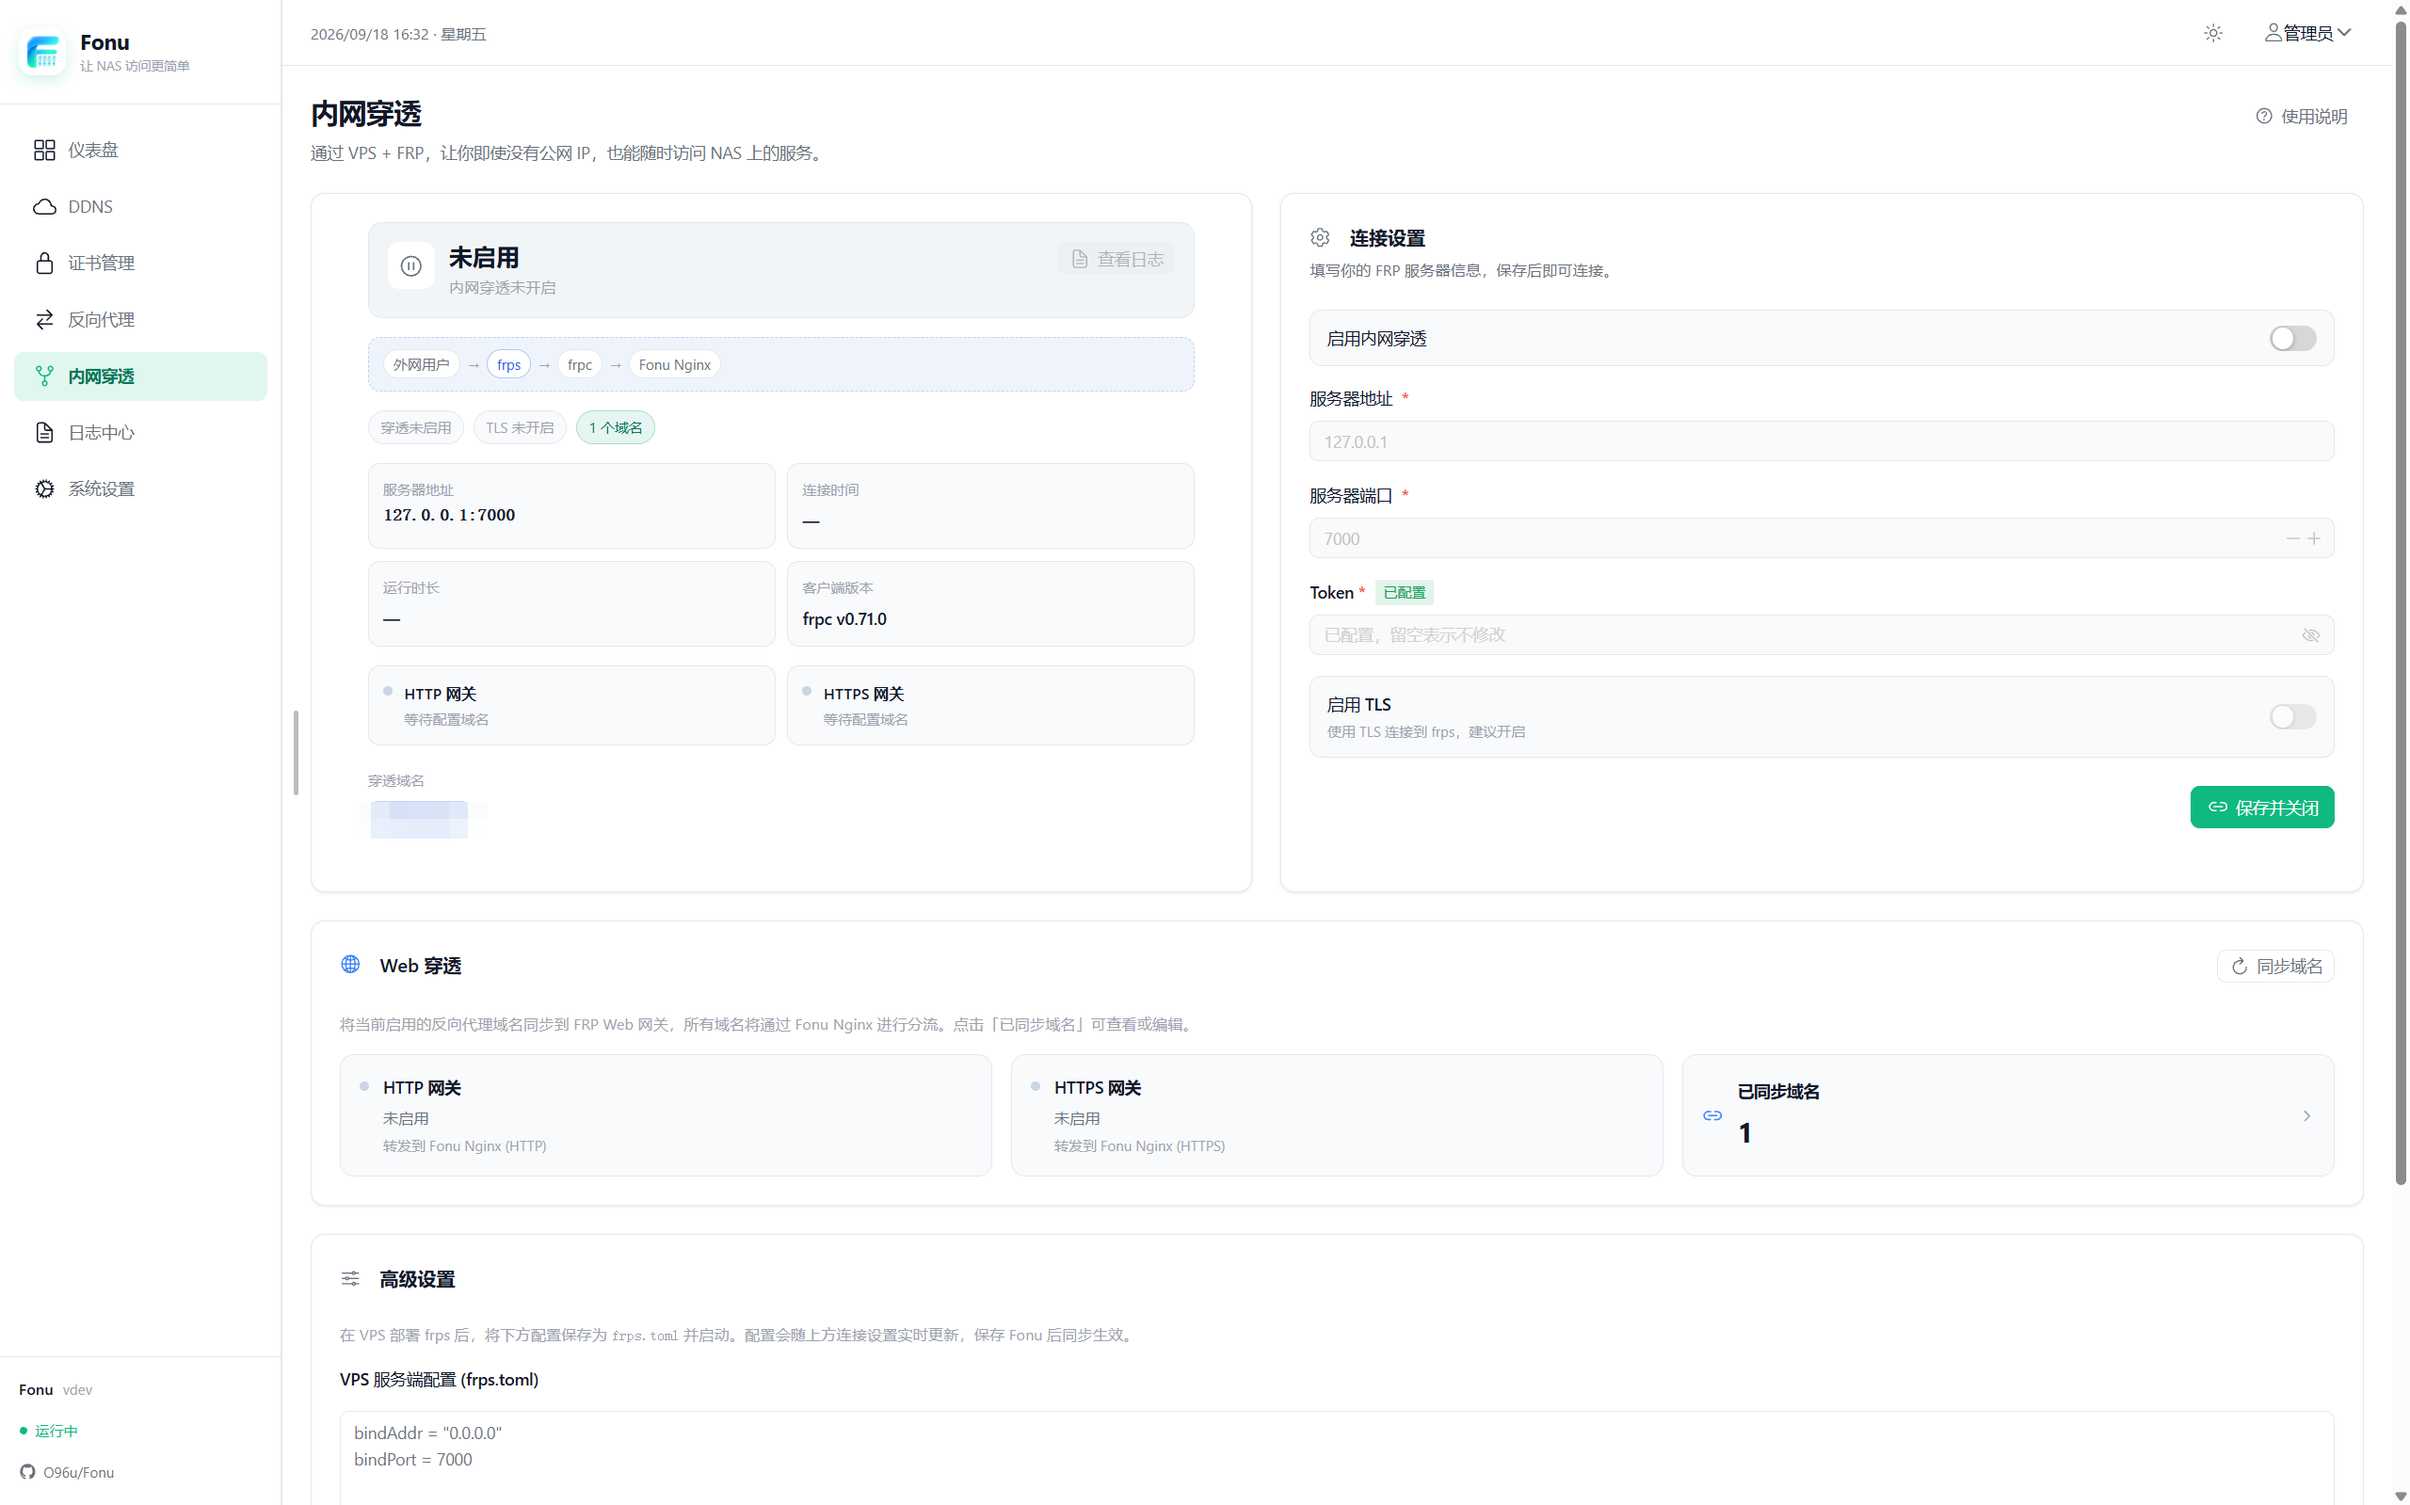
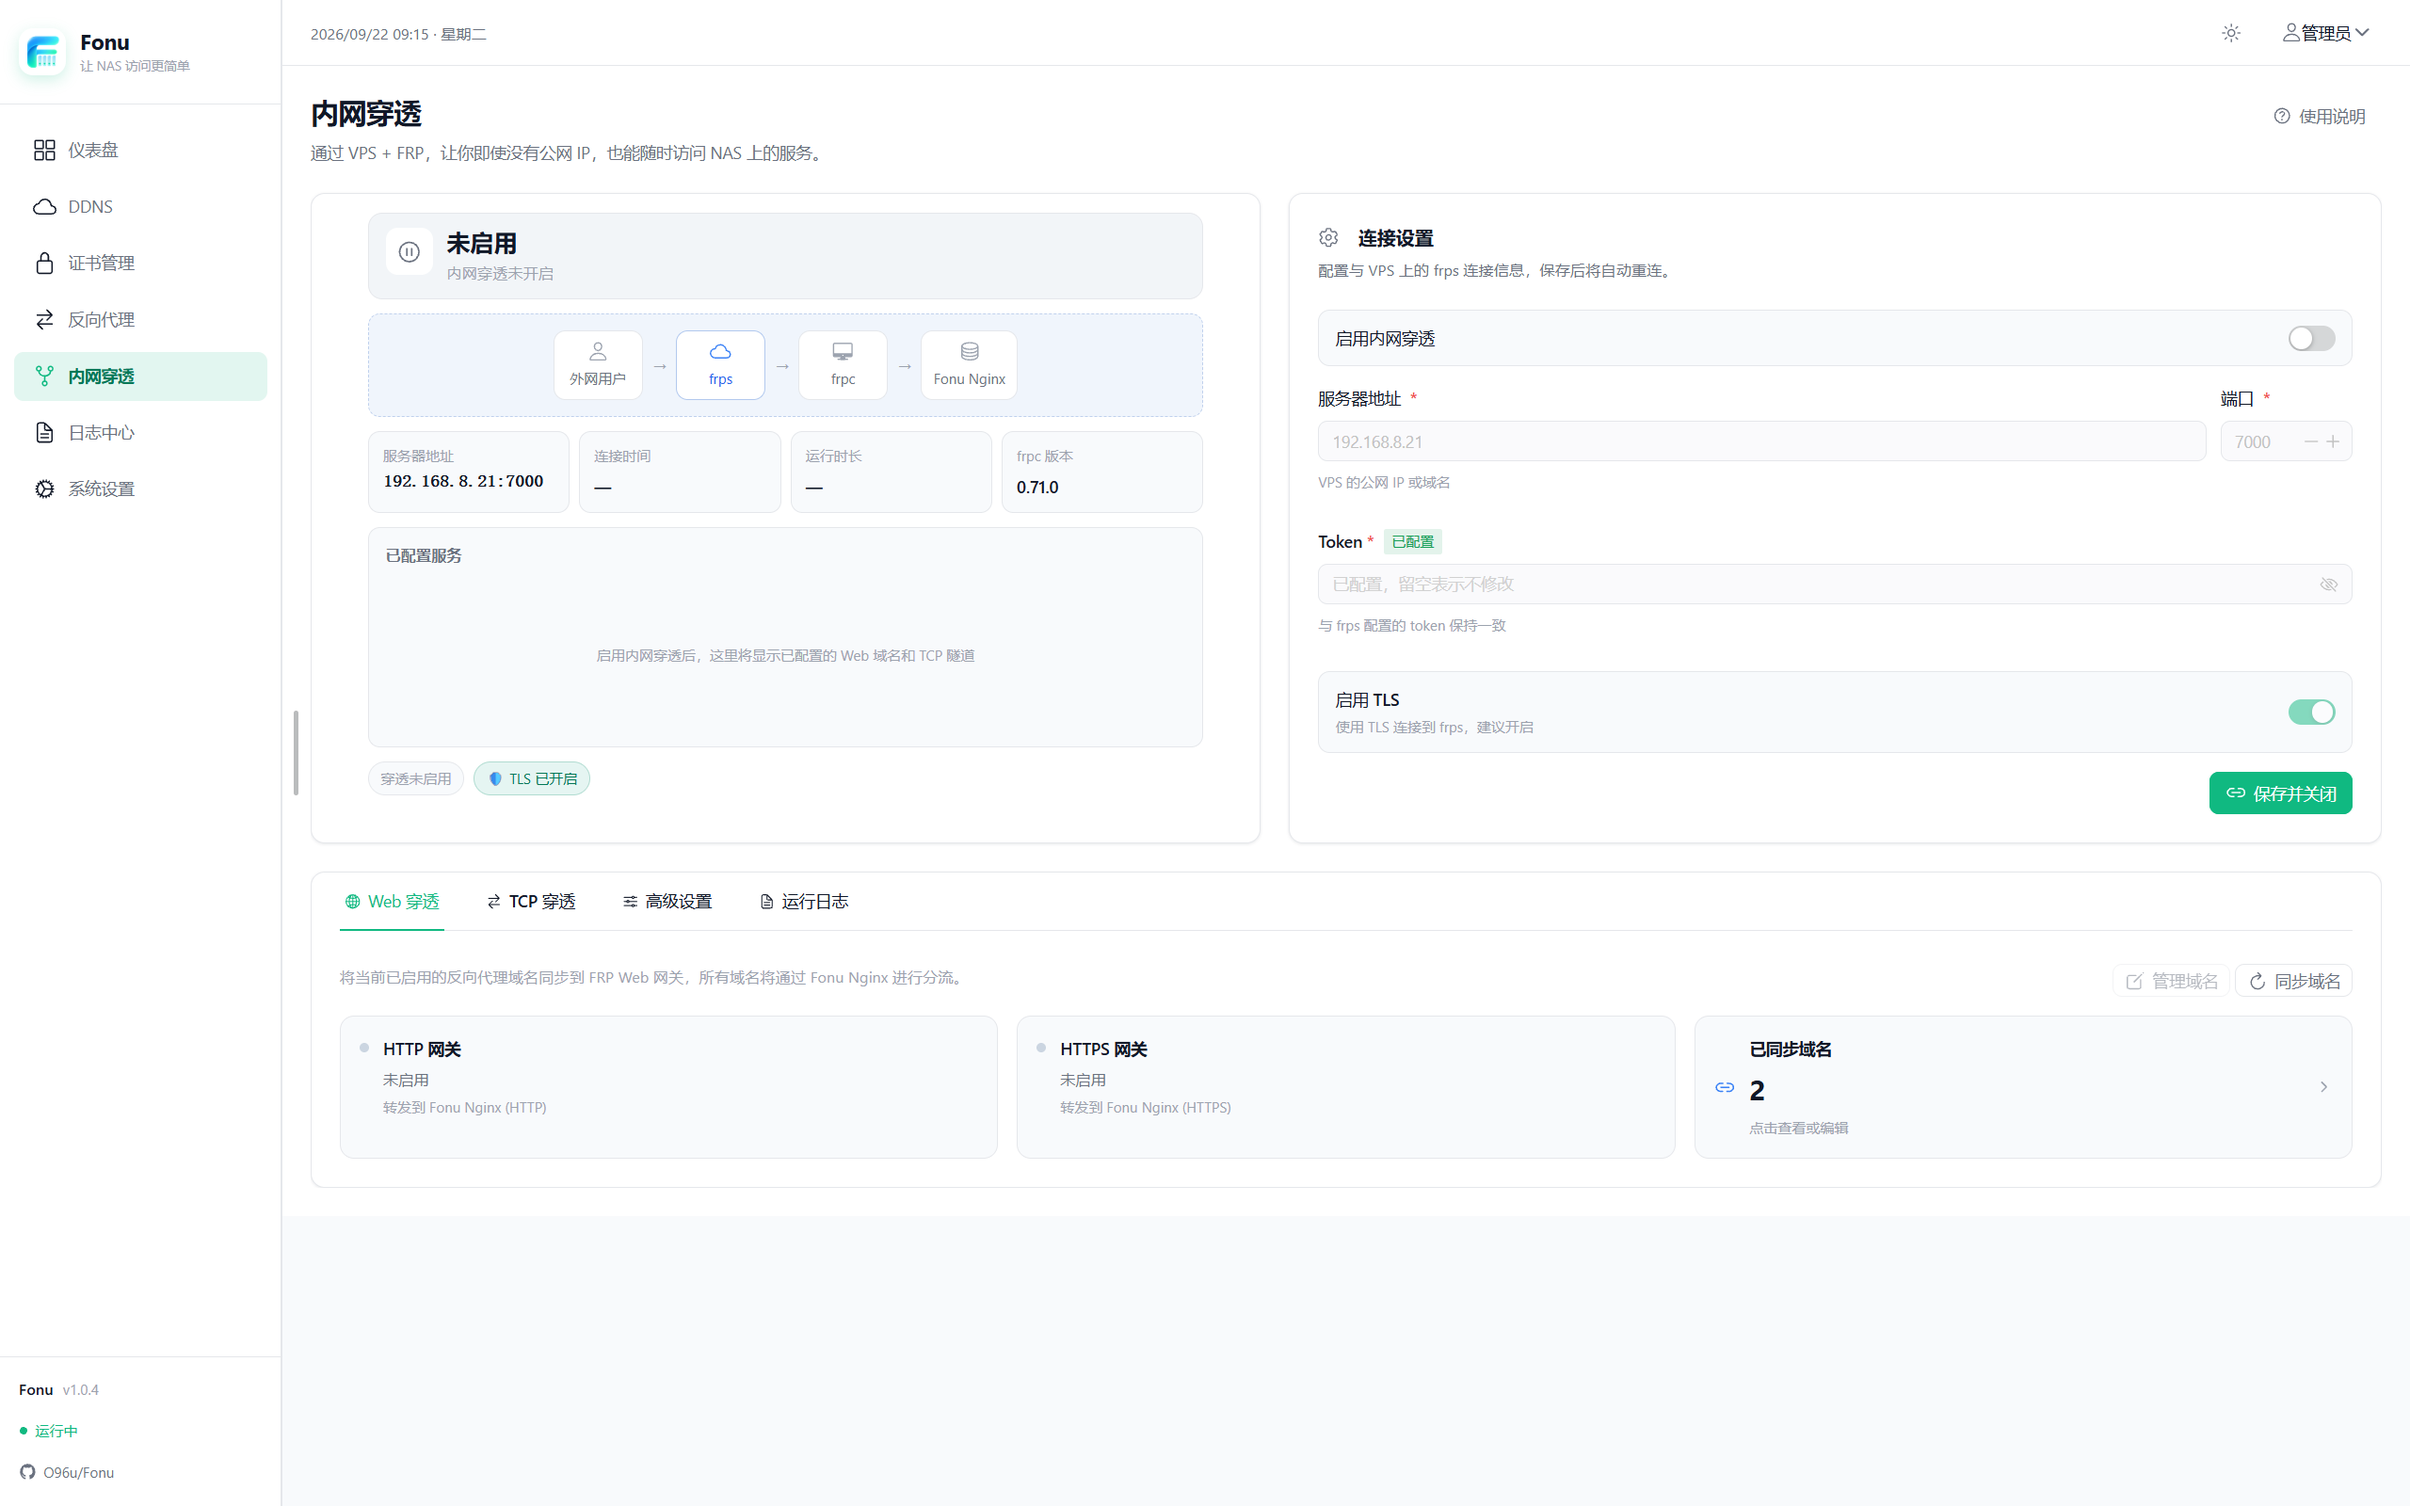
Update documentation

diff --git a/README.md b/README.md
@@ -31,16 +31,16 @@
 
 ## 功能特性
 
-| 模块           | 说明                                                                         |
-| -------------- | ---------------------------------------------------------------------------- |
-| **反向代理**   | 多域名、多端口、HTTP/HTTPS、自动重定向；实时访问日志、流量统计、当前连接 IP  |
-| **DDNS**       | 支持 Cloudflare、DNSPod、阿里云、腾讯云、火山引擎 DNS；单任务多根域名，自动同步公网 IP |
-| **HTTPS 证书** | ACME 自动申请与续期；证书/私钥/ZIP 下载；申请进度实时日志                    |
-| **仪表盘**     | 公网 IP、域名、证书、服务状态一览；请求趋势与运行健康度                      |
-| **日志中心**   | 系统日志、Nginx 访问日志、Nginx 错误日志；分页筛选与自动刷新                   |
-| **内网穿透**   | FRP 客户端（Nginx 网关穿透）：无公网 IP 时经 VPS 中转，反代与安全策略不变    |
-| **系统设置**   | 常规 / 通知 / 安全 / 高级分栏；邮件/Webhook/Telegram 告警、备份与恢复        |
-| **其他**       | 深色模式、配置导出/导入、GitHub Release 更新提示                             |
+| 模块           | 说明                                                                                           |
+| -------------- | ---------------------------------------------------------------------------------------------- |
+| **反向代理**   | 多域名、多端口、HTTP/HTTPS、自动重定向；实时访问日志、流量统计、当前连接 IP                    |
+| **DDNS**       | 支持 Cloudflare、DNSPod、阿里云、腾讯云、火山引擎 DNS；单任务多根域名，自动同步公网 IP         |
+| **HTTPS 证书** | ACME 自动申请与续期；证书/私钥/ZIP 下载；申请进度实时日志                                      |
+| **仪表盘**     | 公网 IP、域名、证书、服务状态一览；请求趋势与运行健康度                                        |
+| **日志中心**   | 系统日志、Nginx 访问日志、Nginx 错误日志；分页筛选与自动刷新                                   |
+| **内网穿透**   | FRP 客户端：Nginx Web 网关穿透 + 独立 TCP 隧道（SSH/数据库等）；连接设置与隧道可分开保存后启动 |
+| **系统设置**   | 常规 / 通知 / 安全 / 高级分栏；邮件/Webhook/Telegram 告警、备份与恢复                          |
+| **其他**       | 深色模式、配置导出/导入、GitHub Release 更新提示                                               |
 
 ## 界面展示
 
@@ -90,9 +90,19 @@
       <b>反向代理 · Nginx 配置</b><br>
       <a href="docs/screenshots/proxy-rule-nginx.png"><img src="docs/screenshots/proxy-rule-nginx.png" alt="反向代理 Nginx 配置" width="100%" /></a>
     </td>
-    <td align="center">
-      <b>内网穿透</b><br>
-      <a href="docs/screenshots/frp.png"><img src="docs/screenshots/frp.png" alt="内网穿透" width="100%" /></a>
+     <td align="center" colspan="2">
+      <b>日志中心</b><br>
+      <a href="docs/screenshots/logs.png"><img src="docs/screenshots/logs.png" alt="日志中心" width="100%" /></a>
+    </td>
+  </tr>
+  <tr>
+  <td align="center">
+      <b>内网穿透 · Web 网关</b><br>
+      <a href="docs/screenshots/frp.png"><img src="docs/screenshots/frp.png" alt="内网穿透 Web 网关" width="100%" /></a>
+    </td>
+    <td align="center" colspan="2">
+      <b>内网穿透 · TCP 转发</b><br>
+      <a href="docs/screenshots/frp-tcp.png"><img src="docs/screenshots/frp-tcp.png" alt="内网穿透 TCP 转发" width="100%" /></a>
     </td>
   </tr>
   <tr>
@@ -105,25 +115,19 @@
       <a href="docs/screenshots/settings-advanced.png"><img src="docs/screenshots/settings-advanced.png" alt="系统设置高级" width="100%" /></a>
     </td>
   </tr>
-  <tr>
-    <td align="center" colspan="2">
-      <b>日志中心</b><br>
-      <a href="docs/screenshots/logs.png"><img src="docs/screenshots/logs.png" alt="日志中心" width="100%" /></a>
-    </td>
-  </tr>
 </table>
 
 ## 技术栈
 
-| 层级         | 技术                                                  |
-| ------------ | ----------------------------------------------------- |
-| **后端**     | Go 1.23、标准库 HTTP、SQLite（modernc.org/sqlite）    |
-| **反向代理** | 内置 Nginx（动态生成配置、热重载）                    |
-| **证书**     | go-acme/lego（Let's Encrypt）                         |
-| **DDNS**     | Cloudflare / DNSPod / 阿里云 / 腾讯云 / 火山引擎 DNS API |
-| **内网穿透** | 内置 frpc（v0.71.x），固定穿透 Fonu Nginx 端口        |
-| **前端**     | Vue 3、TypeScript、Vite、Naive UI、ECharts            |
-| **部署**     | Docker 多架构镜像（amd64 / arm64）、GitHub Actions CI |
+| 层级         | 技术                                                                   |
+| ------------ | ---------------------------------------------------------------------- |
+| **后端**     | Go 1.23、标准库 HTTP、SQLite（modernc.org/sqlite）                     |
+| **反向代理** | 内置 Nginx（动态生成配置、热重载）                                     |
+| **证书**     | go-acme/lego（Let's Encrypt）                                          |
+| **DDNS**     | Cloudflare / DNSPod / 阿里云 / 腾讯云 / 火山引擎 DNS API               |
+| **内网穿透** | 内置 frpc（v0.71.x）；Web 网关穿透 Fonu Nginx，另支持 TCP 远程端口映射 |
+| **前端**     | Vue 3、TypeScript、Vite、Naive UI、ECharts                             |
+| **部署**     | Docker 多架构镜像（amd64 / arm64）、GitHub Actions CI                  |
 
 ## 部署
 
@@ -189,13 +193,21 @@ docker compose up -d --build
 
 ### FRP 内网穿透（无公网 IP）
 
-适用于无法端口映射、无公网 IPv4 的场景。Fonu 内置 **frpc**，仅做 **Nginx 网关穿透**：外网流量经 VPS 上的 frps 中转，再转发到本地 Nginx（默认 `18080` / `9443`）。域名分流、HTTPS 证书、访问控制、日志仍全部由 Fonu Nginx 处理。
+适用于无法端口映射、无公网 IPv4 的场景。Fonu 内置 **frpc**，在 **内网穿透** 页面统一管理：
 
-**流量路径**：用户 → DNS（解析到 VPS）→ frps → frpc → Fonu Nginx → 内网服务
+- **Web 网关**：外网 HTTP/HTTPS 经 VPS 上的 frps 中转至本地 Fonu Nginx（默认 `18080` / `9443`），域名分流、证书、访问控制、日志仍由 Nginx 处理
+- **TCP 转发**：将 VPS 上的远程端口映射到内网 TCP 服务（如 SSH `22`、数据库）；可与 Web 网关同时启用，纯 TCP 场景可不配置穿透域名
+- **连接设置**：填写 frps 地址、端口、Token、TLS；可先保存连接信息，待配置 Web 域名或 TCP 隧道后再启动 frpc
+
+**Web 流量路径**：用户 → DNS（解析到 VPS）→ frps → frpc → Fonu Nginx → 内网服务
+
+**TCP 流量路径**：用户 → VPS 公网 IP:远程端口 → frps → frpc → 内网 `IP:端口`
 
 #### 1. VPS 部署 frps
 
-在具有公网 IP 的 VPS 上安装 [frp](https://github.com/fatedier/frp)（建议 v0.71.x，与 Fonu 内置 frpc 同版本），创建 `frps.toml`：
+在具有公网 IP 的 VPS 上安装 [frp](https://github.com/fatedier/frp)（建议 **v0.71.x**，与 Fonu 内置 frpc 同版本）。Fonu **高级设置** 中可查看根据当前连接与 TCP 隧道自动生成的 `frps.toml` 参考（含 `allowPorts` 等）。
+
+典型 Web 网关示例：
 
 ```toml
 bindAddr = "0.0.0.0"
@@ -208,22 +220,23 @@ vhostHTTPPort = 80
 vhostHTTPSPort = 443
 ```
 
-启动：`frps -c frps.toml`。安全组/防火墙需放行 **7000**（控制连接）及 **80/443**（HTTP/HTTPS 虚拟主机）。
+启动：`frps -c frps.toml`。安全组/防火墙需放行 **7000**（控制连接）、**80/443**（Web 虚拟主机），以及 **TCP 隧道使用的远程端口**（在 Fonu 页面添加 TCP 规则后按提示放行）。
 
 #### 2. Fonu 配置 frpc
 
-在侧栏 **内网穿透** 页面填写：
+在侧栏 **内网穿透** 页面：
 
-- FRP 服务器地址 / 端口（默认 7000）
-- 与 frps 一致的认证 Token
-- 穿透域名列表（与反代规则中的域名一致，支持 `*.example.com`）
+1. **连接设置**：FRP 服务器地址 / 端口（默认 7000）、与 frps 一致的 Token、是否启用 TLS
+2. **Web 穿透**：从反向代理同步域名，或手动维护「已同步域名」；保存后创建 HTTP → Nginx HTTP 端口、HTTPS → Nginx HTTPS 端口隧道
+3. **TCP 转发**：添加隧道（名称、VPS 远程端口、内网目标地址），单独启停
 
-保存后 Fonu 自动生成 `frpc.toml` 并启动 frpc，固定创建 HTTP → Nginx HTTP 端口、HTTPS → Nginx HTTPS 端口两条隧道。
+启用内网穿透并保存后，Fonu 自动生成 `frpc.toml` 并启动 frpc。**运行日志** Tab 与 **日志中心 → FRP** 可查看 frpc 输出。
 
 #### 3. DNS 与证书
 
-- **DDNS**：启用 FRP 后，域名应解析到 **VPS 公网 IP**，而非 NAS IP（DDNS 页会有提示）
-- **HTTPS 证书**：推荐继续使用 **DNS-01** 验证（Cloudflare、阿里云、腾讯云、DNSPod、火山引擎等已支持）；证书仍在 NAS 侧 Nginx 终结
+- **DDNS**：启用 FRP 后，Web 域名应解析到 **VPS 公网 IP**，而非 NAS IP（DDNS 页会有提示）
+- **HTTPS 证书**：Web 网关推荐继续使用 **DNS-01** 验证（Cloudflare、阿里云、腾讯云、DNSPod、火山引擎等已支持）；证书仍在 NAS 侧 Nginx 终结
+- **纯 TCP**：无需为 TCP 隧道单独配置域名证书
 
 ## 环境变量
 
